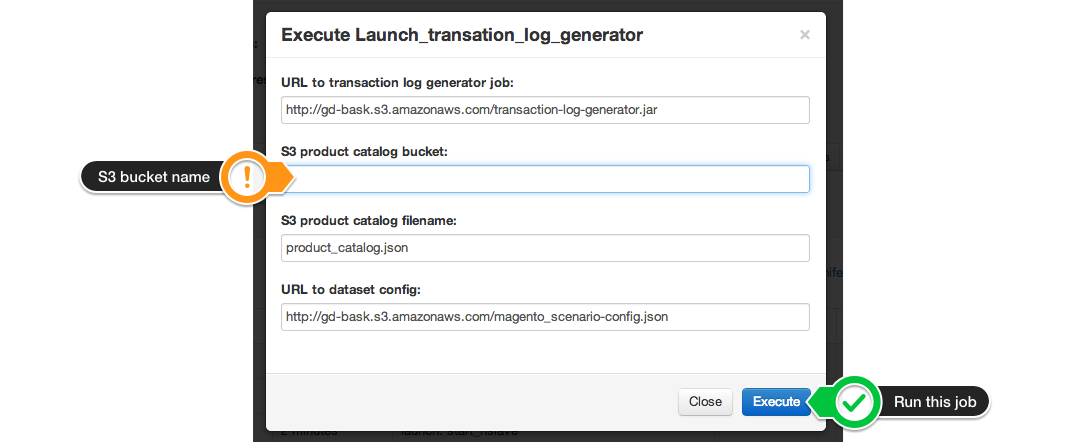
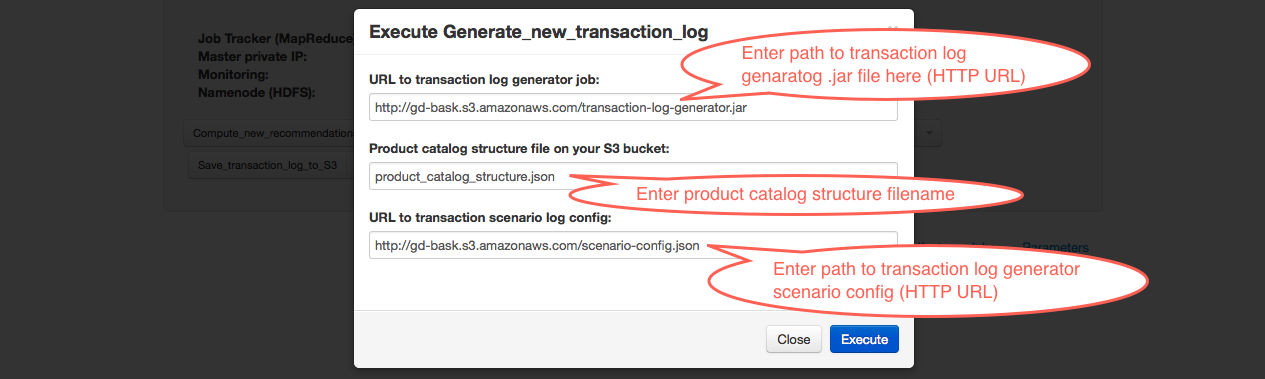
Generate new transaction log updated

diff --git a/docs/Getting-started--Generate-sample-transaction-log.md b/docs/Getting-started--Generate-sample-transaction-log.md
@@ -1,17 +1,17 @@
-Generate sample transaction log
+Generate new transaction log
 -------------------------------
 
-Click “Launch transaction log generator” button on behavior analytics platform application output panel to generate sample transaction log. 
+Press “Generate new transaction log” button on behavior analytics platform application output panel to generate synthetic transaction log. 
 In fact [transaction log generator job](Developer-Guide--Behavior-Analytics-Platform--Transaction-Log-Generator.md) will be launched. You can configure transaction log generator default parameters before job start. 
 
 ![launch transaction log gen][launch_transaction_log_gen]
 
 Following parameters can be configured: 
-* URLs to transaction log generator job and transaction log generator configuration file (JSON). 
-* Your Amazon S3 bucket and filename for product catalog structure on S3 that would be used to generate transaction log.
+* URLs to transaction log generator job and transaction log generator scenario configuration file (JSON). 
+* Filename for product catalog structure on S3 that would be used to generate transaction log.
 
 ![launch transaction log gen dialog][launch_transaction_log_gen_dialog]
 
 
-[launch_transaction_log_gen]: https://raw.github.com/griddynamics/Behavior-Analytic-Starter-Kit/master/docs/images/Developer%20Guide/launch_transaction_log_gen.png
-[launch_transaction_log_gen_dialog]: https://raw.github.com/griddynamics/Behavior-Analytic-Starter-Kit/master/docs/images/Developer%20Guide/launch_transaction_log_gen_dialog.png
+[launch_transaction_log_gen]: images/Developer%20Guide/launch_transaction_log_gen.png
+[launch_transaction_log_gen_dialog]: images/Developer%20Guide/launch_transaction_log_gen_dialog.png
